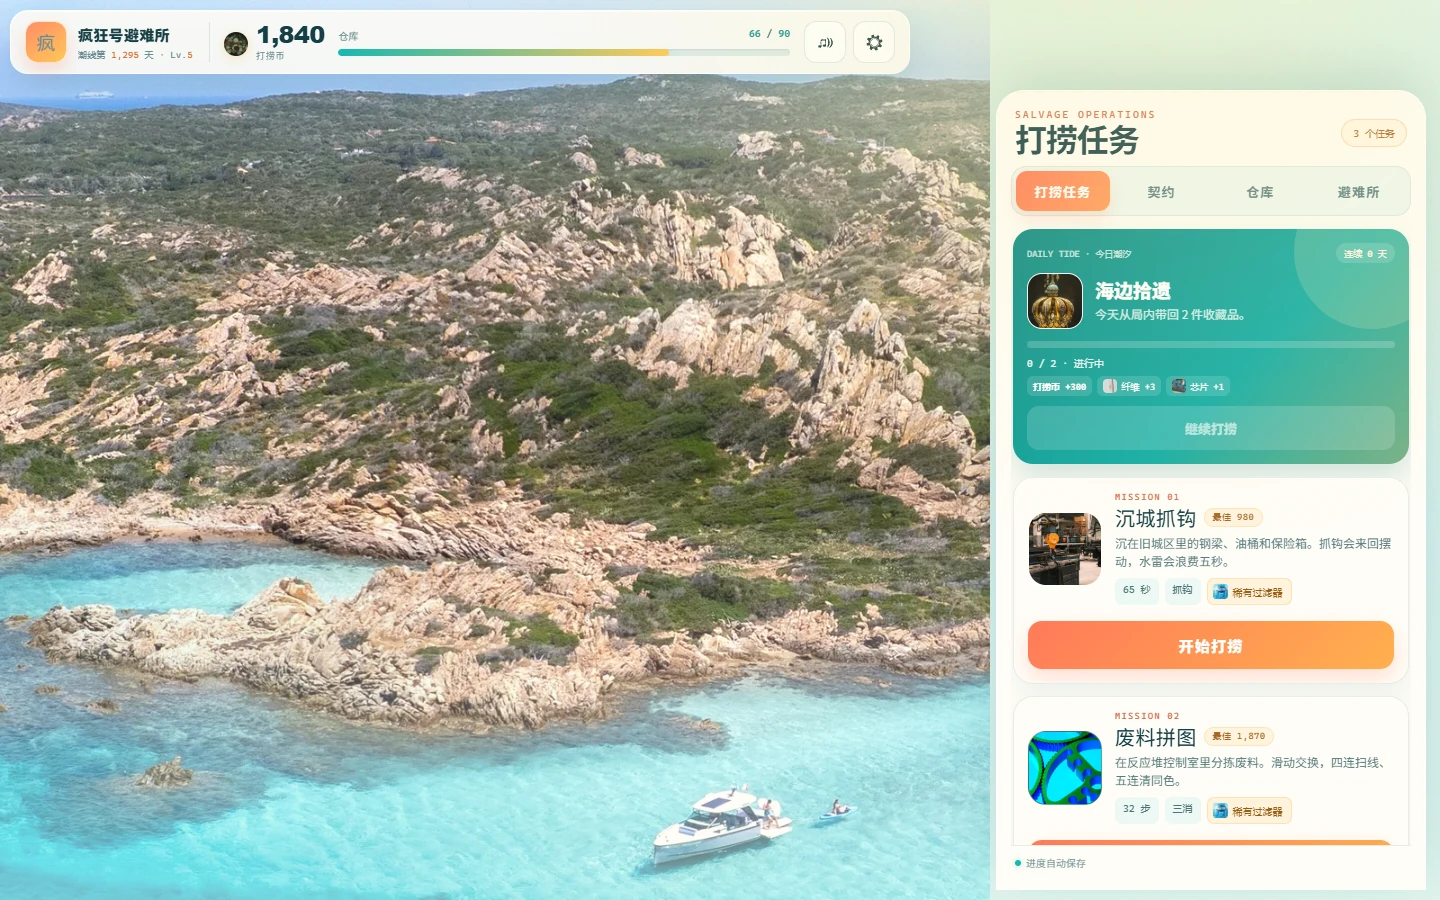
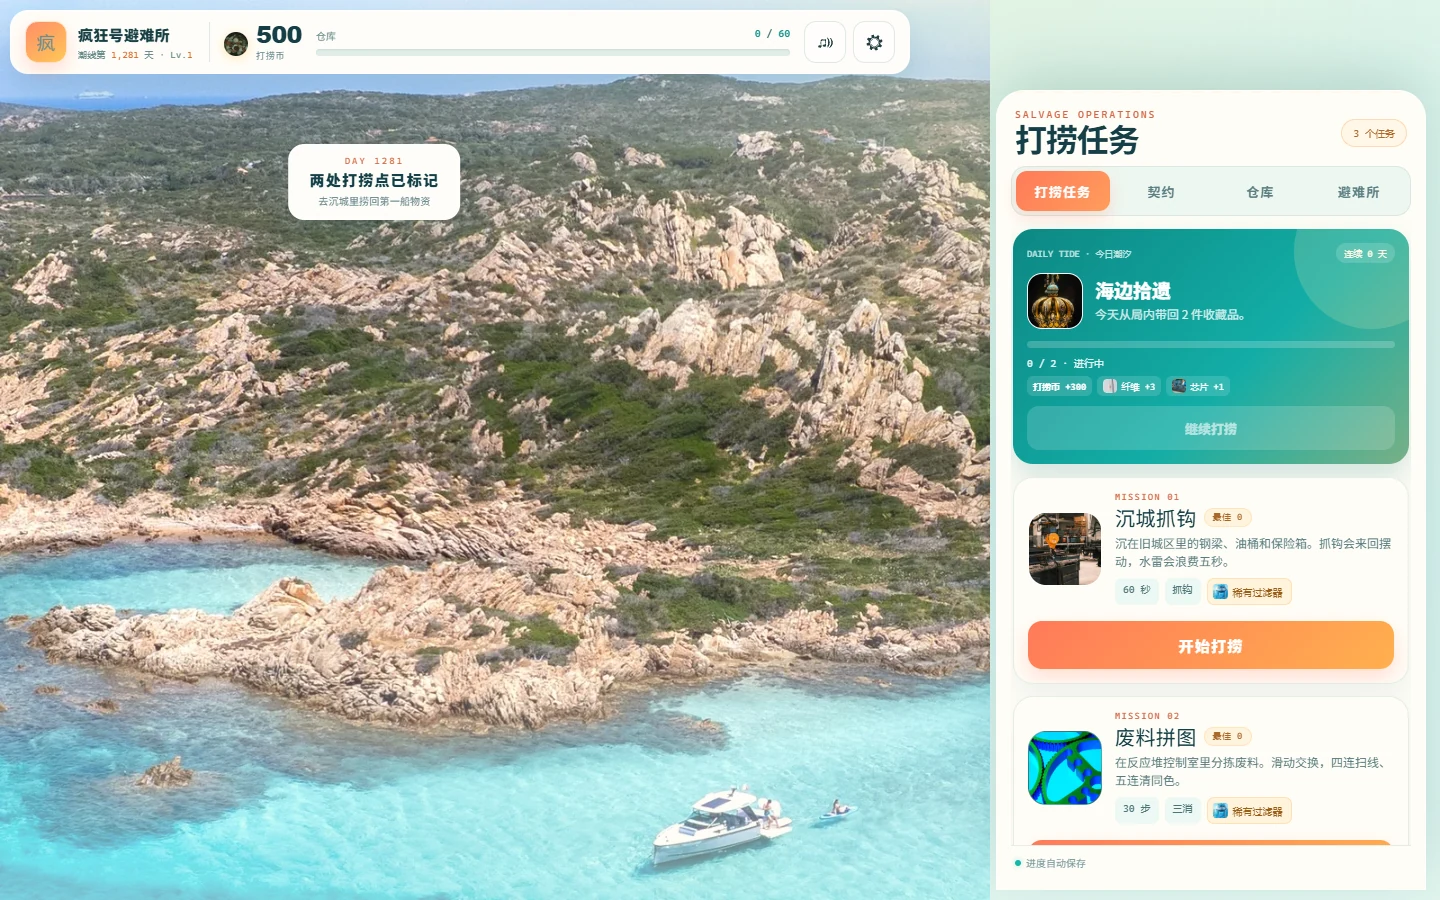
v5.0: 移除 Node 依赖，纯静态化并优化渲染性能

diff --git a/css/style.css b/css/style.css
@@ -1965,6 +1965,25 @@ body::after {
   .achievement-stats b { font-size: 17px; }
 }
 
+/* ── pure static performance pass ─────────────────────────── */
+/* Full-screen animated grain/rain and live backdrop blurs were the
+   biggest repaint costs on low-end phones. The game keeps its palette
+   and photography without those compositing layers. */
+.rain-glass, .grain, body::after { display: none !important; }
+.hud-bar, .title-stats, .btn, .modal, .toast, .arcade-heading,
+.arcade-stats > div, .arcade-bottom, .arcade-card, .loot-chip {
+  backdrop-filter: none !important;
+  -webkit-backdrop-filter: none !important;
+}
+.hud-bar { background: #fffdf8 !important; }
+.title-stats { background: rgba(255, 252, 244, 0.93); }
+.modal { background: #fffaf0; }
+.toast { background: #fffdf8; }
+.arcade-heading, .arcade-stats > div, .arcade-bottom, .arcade-card, .loot-chip { background-color: #fffdf8; }
+.panel-foot i { animation: none; }
+.countdown { animation: none; }
+.title-inner, .logo { animation: none; }
+
 /* Daily tide contract */
 .daily-card {
   position: relative;

diff --git a/js/hub.js b/js/hub.js
@@ -543,9 +543,8 @@
   Hub.prototype.resize = function () {
     this.w = Math.max(280, window.innerWidth);
     this.h = Math.max(280, window.innerHeight);
-    var coarse = window.matchMedia && window.matchMedia('(pointer: coarse)').matches;
-    var dpr = Math.min(coarse ? 1.5 : 2, window.devicePixelRatio || 1);
-    var maxPixels = 3000000;
+    var dpr = Math.min(1.5, window.devicePixelRatio || 1);
+    var maxPixels = 2400000;
     var raw = this.w * this.h * dpr * dpr;
     if (raw > maxPixels) dpr *= Math.sqrt(maxPixels / raw);
     this.dpr = dpr;
@@ -631,8 +630,14 @@
       this.arcade.update(dt);
       this.arcade.render();
     } else {
-      this.updateScene(dt);
-      this.renderScene();
+      // The hub backdrop is a slow, ambient scene. 30fps cuts canvas and
+      // compositor work in half without changing the feel of the rain.
+      this.hubAccum = (this.hubAccum || 0) + dt;
+      if (this.hubAccum >= 1 / 30) {
+        this.updateScene(this.hubAccum);
+        this.renderScene();
+        this.hubAccum = 0;
+      }
     }
     requestAnimationFrame(this.loop);
   };

diff --git a/index.html b/index.html
@@ -133,7 +133,7 @@
       </div>
       <div class="title-footer">
         <span>海岸实景素材 · 本地图片 · 无离线收益</span>
-        <span>v4.6 · SUNNY COAST</span>
+        <span>v5.0 · PURE STATIC</span>
       </div>
     </section>
 
@@ -218,7 +218,7 @@
         <button class="btn ghost wide" data-action="guide">查看玩法说明</button>
         <button id="reset-save" class="btn danger wide" data-action="reset-save">清空避难所</button>
         <p class="modal-note">清空会删除打捞币、物资和所有扩建，无法撤销。再次点击确认。</p>
-        <p class="version">疯狂水世界 · v4.6 · 本地图片素材 + 程序化特效，无远程依赖</p>
+        <p class="version">疯狂水世界 · v5.0 · 本地图片素材 + 程序化特效，无远程依赖</p>
       </div>
     </section>
 
@@ -292,6 +292,7 @@
   </main>
 </body>
 </html>
+
 
 
 

diff --git a/js/arcade.js b/js/arcade.js
@@ -221,9 +221,8 @@
   Arcade.prototype.resize = function () {
     this.w = Math.max(280, window.innerWidth);
     this.h = Math.max(280, window.innerHeight);
-    var coarse = window.matchMedia && window.matchMedia('(pointer: coarse)').matches;
-    var dpr = Math.min(coarse ? 1.5 : 2, window.devicePixelRatio || 1);
-    var maxPixels = 2600000;
+    var dpr = Math.min(1.5, window.devicePixelRatio || 1);
+    var maxPixels = 2200000;
     var raw = this.w * this.h * dpr * dpr;
     if (raw > maxPixels) dpr *= Math.sqrt(maxPixels / raw);
     this.dpr = dpr;

diff --git a/README.md b/README.md
@@ -16,16 +16,15 @@
 
 源码仓库：**https://github.com/YHSome/crazy-water-world**
 
-本地预览（二选一）：
+本地运行：
 
-```bash
-# 项目自带零依赖 Node 静态服务器（Node.js >= 18）
-npm start
-# → http://127.0.0.1:4173
-
-# 或者直接用 Python
-python -m http.server 4173
+```text
+直接双击 index.html 即可。
 ```
+
+- 纯 **HTML + CSS + 原生 JavaScript**，无 Node、无 npm、无打包、无构建步骤。
+- 不需要安装任何运行时，也不需要启动服务器；双击 `index.html` 即可。
+- 图片、音频、脚本全部为本地文件，无远程运行时依赖。
 
 > 手机、平板、桌面浏览器均可直接游玩。建议开启声音。
 
@@ -291,7 +290,7 @@ python -m http.server 4173
 1. 推送仓库，默认分支使用 `main` 或 `master`。
 2. 进入 **Settings → Pages**。
 3. **Build and deployment → Source** 选择 **GitHub Actions**。
-4. workflow `Deploy 疯狂水世界 to GitHub Pages` 会自动构建并发布。
+4. workflow `Deploy 疯狂水世界 to GitHub Pages` 会把仓库静态文件原样上传并发布，**没有构建步骤**。
 
 工作流文件：[.github/workflows/pages.yml](.github/workflows/pages.yml)。
 
@@ -305,7 +304,7 @@ python -m http.server 4173
 
 ## 技术栈
 
-- HTML5 Canvas 2D + 原生 JavaScript，无框架、无构建步骤。
+- HTML5 Canvas 2D + 原生 JavaScript，纯静态 HTML/CSS/JS；无 Node、无 npm、无框架、无构建步骤。
 - **四首本地 BGM**：标题/避难所 Loop A、抓钩 Loop D、三消 Loop I、声呐 Loop C；场景切换时自动换曲，返回避难所从暂停位置继续。
 - **音效扩充**：界面切换、领取契约、合成、分解、声呐 ping / 货箱发现、四连线扫、五连彩虹、连击、错误与稀有物音效均由 Web Audio 实时合成。
 - 声音按钮同时控制 BGM 和音效，静音时暂停当前曲目，恢复后从原位置继续。
@@ -348,9 +347,8 @@ python -m http.server 4173
 │   └── seawater-filter-icon.webp # 方图，用于抓钩 / 标签 / 图标
 ├── favicon.png                   # 过滤器图片裁切
 ├── CREDITS.md                    # 图片、图标与 BGM 来源
-├── server.js                     # 零依赖本地静态服务器（可选）
-├── package.json
-├── docs/                       # README 预览图（WebP）
+├── .nojekyll                     # GitHub Pages 原样发布静态文件
+├── docs/                         # README 预览图（WebP）
 ├── DESIGN.md                   # 详细游戏设计文档
 ├── ROADMAP.md                  # 两小时迭代路线与候选玩法
 └── .github/workflows/pages.yml

diff --git a/DESIGN.md b/DESIGN.md
@@ -1,6 +1,6 @@
 # 疯狂水世界 · 游戏设计文档
 
-> 版本：4.6 · 类型：海岸打捞 / 小游戏合集 / 轻松经营  
+> 版本：5.0 · 类型：海岸打捞 / 小游戏合集 / 轻松经营  
 > 平台：桌面与移动端浏览器 · 单局 1–3 分钟 · 无离线收益
 
 ---
@@ -428,11 +428,12 @@ assets/seawater-filter-icon.webp  方图，水面 / 标签 / 图标
 CREDITS.md                        图片与图标授权
 ```
 
-- 原生 JavaScript + Canvas 2D；无框架、无构建步骤。
+- 纯静态 **HTML + CSS + 原生 JavaScript + Canvas 2D**；无 Node、无 npm、无框架、无构建步骤，直接打开 `index.html` 可运行。
 - Hub 与 Arcade 使用两个独立 canvas；Hub 在小游戏打开时停止绘制。
 - 背景与物件均通过 `Image` 预加载后用 `drawImage` 合成；Canvas 不再绘制场景/物件本体。
-- 主循环 `requestAnimationFrame`，`dt` 限制 50ms。
-- 手机端（pointer: coarse）DPR 上限 1.5；Hub 画布预算约 300 万像素、Arcade 约 260 万；粒子上限下调。抓钩物品精灵、三消方块与背景均预渲染缓存。
+- 主循环 `requestAnimationFrame`，`dt` 限制 50ms；Hub 环境场景固定 30fps，Arcade 保持 60fps。
+- DPR 上限 1.5；Hub 画布预算约 240 万像素、Arcade 约 220 万；粒子上限下调。抓钩物品精灵、三消方块与背景均预渲染缓存。
+- 性能优先：移除全屏动态 grain/rain、`backdrop-filter` 实时模糊、暗角伪元素和持续脉冲动画；面板改为不透明奶油底，靠静态阴影与边框维持层次。
 - 存档写入 `crazywater.floodline.v1`，包含 `filters` 稀有物、`filterPity` 保底计数、`collectibles` 收藏、`contracts` 契约进度 / `contractRound` 轮次与 `upgrades.purifier`；套装加成由已拥有收藏实时计算，不单独存档。仅在开始、结算、扩建、领取契约、合成和页面退出时写入。
 - 音效开关：`crazywater.muted.v1`。
 - **没有**离线收益、最后在线时间结算或后台模拟。
@@ -450,6 +451,7 @@ CREDITS.md                        图片与图标授权
 ---
 
 所有核心数值集中在 `js/hub.js`、`js/arcade.js`、`js/match.js` 顶部，方便直接调整并重新平衡。过滤器出现率分别在 `HookGame.buildField`（12%）和 `MatchGame.finish`（5%）中调整。
+
 
 
 

diff --git a/ROADMAP.md b/ROADMAP.md
@@ -2,7 +2,15 @@
 
 > 每 2 小时一轮。每轮先列计划，再做一项以上有意义的改动，并完成测试与文档更新。
 
-## 当前版本：v4.6
+## 当前版本：v5.0
+
+### v5.0 · 纯静态与性能重构
+
+- 删除 `server.js`、`package.json`，游戏只保留 HTML/CSS/JS/本地素材；双击 `index.html` 即可运行。
+- 移除全屏动态 grain/rain、`backdrop-filter` 模糊、暗角伪元素和持续脉冲动画。
+- Hub 环境场景降至 30fps；Arcade 保持 60fps；DPR 上限统一 1.5。
+- Hub 像素预算 240 万、Arcade 220 万；粒子继续封顶。
+- 保留全部玩法、四首 BGM、写实素材、每日/成就/契约/许可系统。
 
 ### v4.6 · 稀有悬赏与契约刷新
 
@@ -150,6 +158,7 @@
 4. 更新版本号、README / DESIGN、必要的预览图和 `CREDITS.md`。
 5. 回复按「计划 → 改动 → 测试 → 下一轮候选」输出。
 6. 保持：**无离线收益、无体力、无远程运行时依赖**。
+
 
 
 
